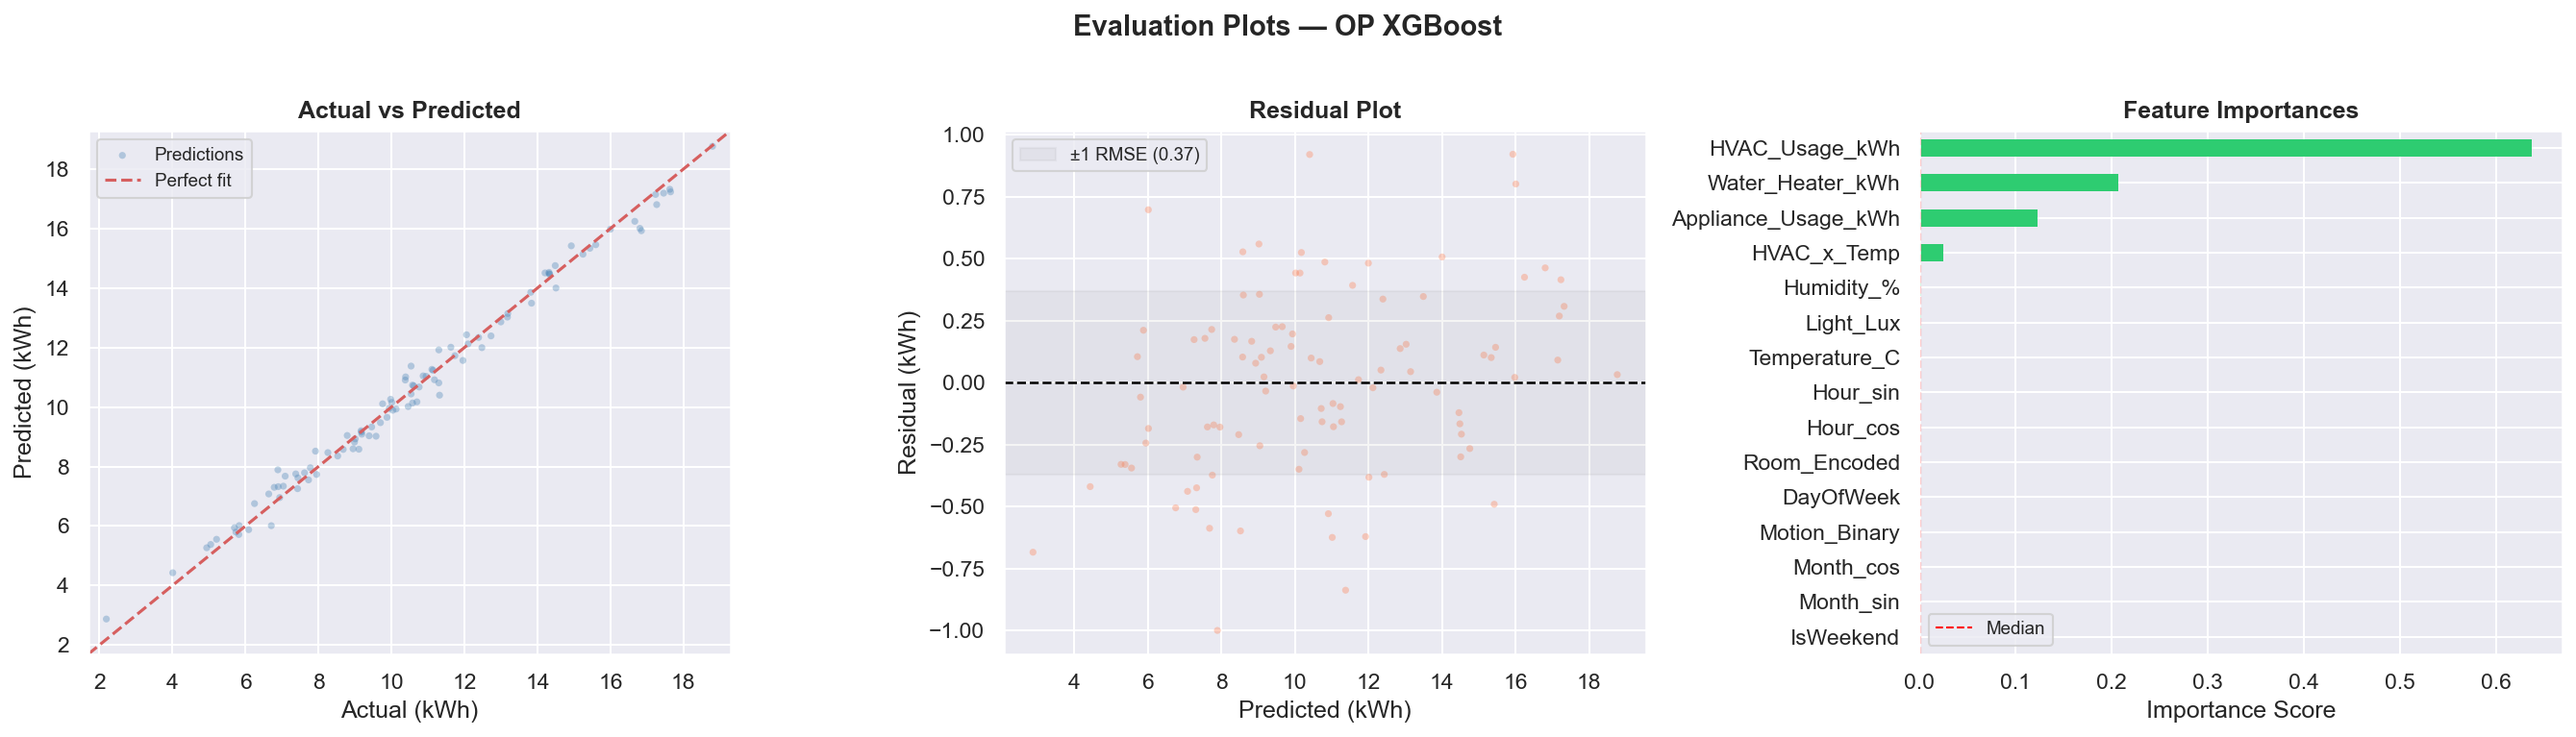
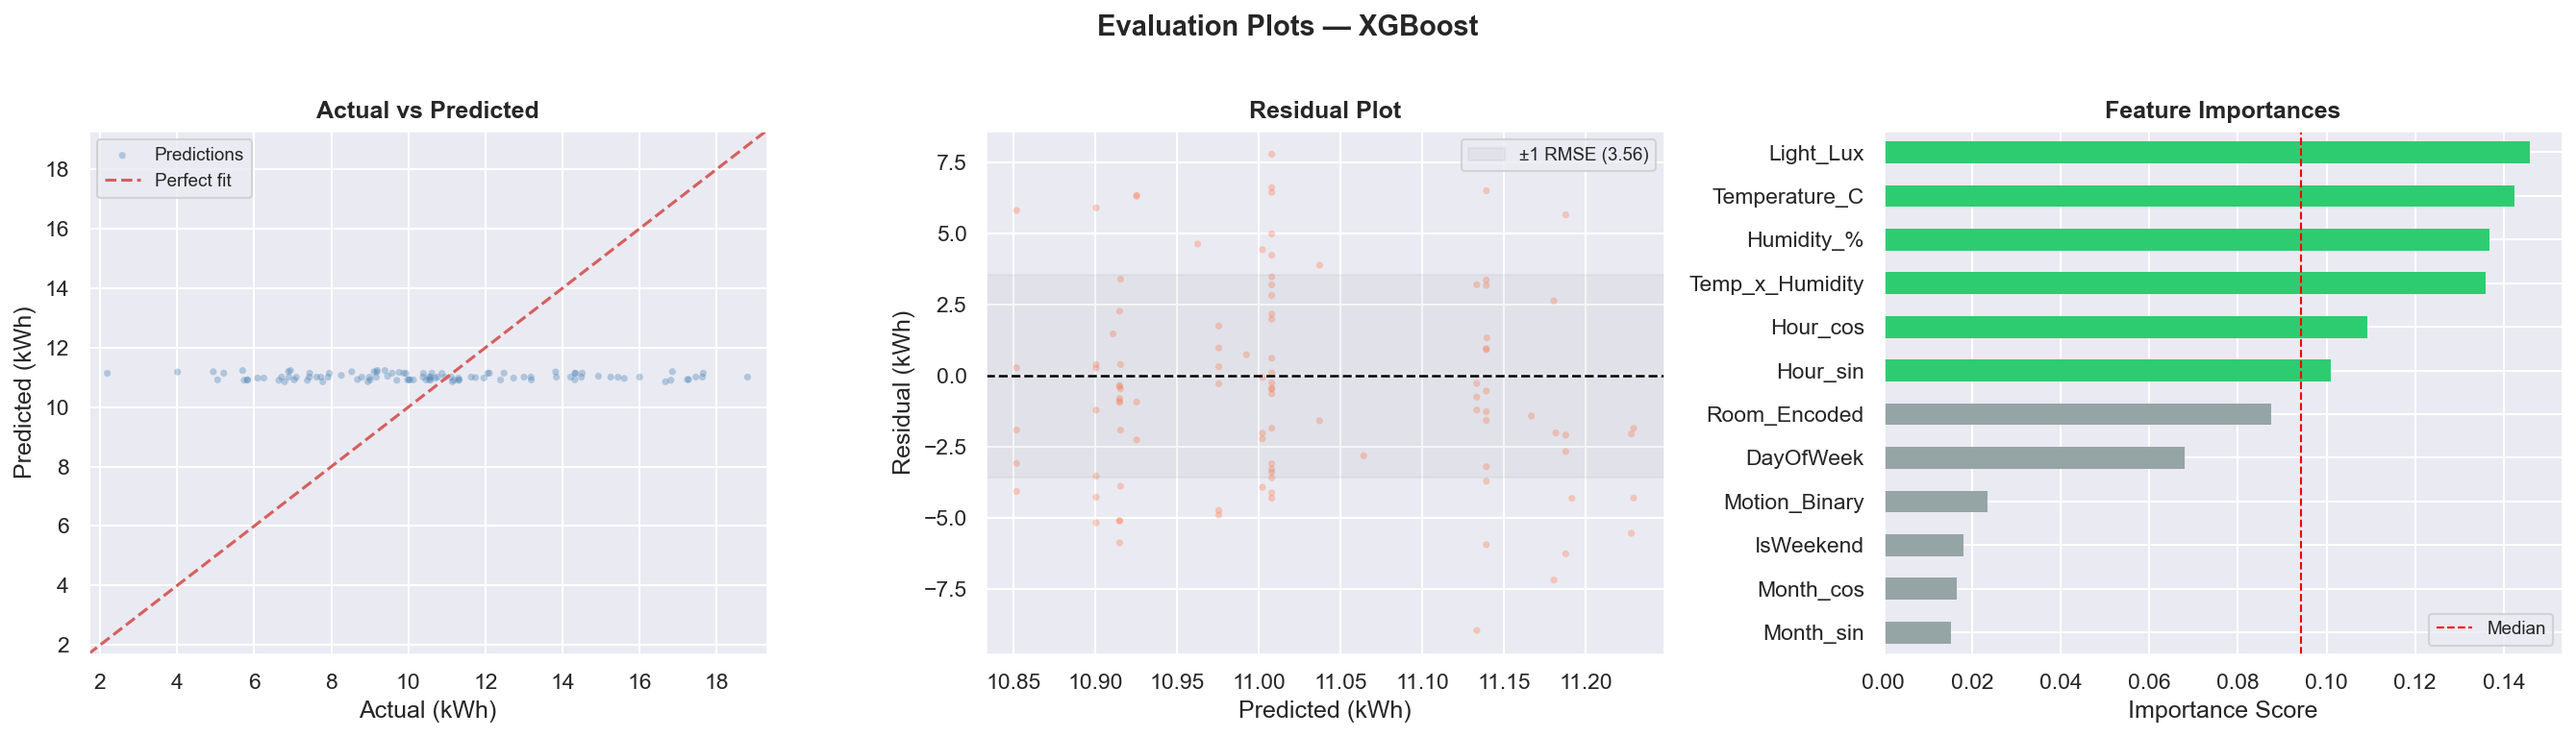
Pyfile

diff --git a/Smart_Home_Energy_Usage.py b/Smart_Home_Energy_Usage.py
@@ -1,16 +1,13 @@
-#!/usr/bin/env python
-# coding: utf-8
-
+# %% [markdown]
 # # Smart Home Energy Consumption Forecasting
 # **End-to-end ML pipeline: Preprocessing → EDA → Feature Engineering → Model Training → Evaluation**
 
+# %% [markdown]
 # # Imports
 
-# In[ ]:
-
-
-import sys # installing Packages for non-colab users 
-#get_ipython().system('{sys.executable} -m pip install pandas numpy matplotlib seaborn scikit-learn xgboost')
+# %%
+import sys # installing Packages for non-colab users
+!{sys.executable} -m pip install pandas numpy matplotlib seaborn scikit-learn xgboost
 
 
 import pandas as pd
@@ -32,12 +29,10 @@ os.makedirs("outputs", exist_ok=True)
 sns.set_theme(style="darkgrid", palette="muted")
 plt.rcParams.update({"figure.dpi": 120, "font.size": 11})
 
-
+# %% [markdown]
 # ## Step 1: Data Preprocessing
 
-# In[30]:
-
-
+# %%
 df = pd.read_csv("smart_home_energy_usage_dataset.csv")
 
 # Strip whitespace from column names to avoid hidden KeyErrors
@@ -56,12 +51,10 @@ print(f"Missing values: {df.isnull().sum().sum()}")
 print(f"Date range: {df['DateTime'].min()} -> {df['DateTime'].max()}")
 df.head()
 
-
+# %% [markdown]
 # ## Step 2: Exploratory Data Analysis (EDA)
 
-# In[31]:
-
-
+# %%
 fig, axes = plt.subplots(2, 2, figsize=(16, 11))
 fig.suptitle("Smart Home Energy — EDA Overview", fontsize=15, fontweight="bold", y=1.01)
 
@@ -111,12 +104,10 @@ plt.tight_layout()
 plt.savefig("outputs/eda_overview.png", bbox_inches="tight", dpi=150)
 plt.show()
 
-
+# %% [markdown]
 # ## Step 3: Feature Engineering
 
-# In[32]:
-
-
+# %%
 # --- 1. Basic Time Features ---
 df["Hour"]      = df["DateTime"].dt.hour
 df["DayOfWeek"] = df["DateTime"].dt.dayofweek
@@ -137,8 +128,9 @@ df["Room_Encoded"]  = df["Room"].map(
 )
 
 # --- 4. Interaction Feature ---
-# HVAC load amplified by temperature — captures heating/cooling demand
-df["HVAC_x_Temp"] = df["HVAC_Usage_kWh"] * df["Temperature_C"]
+# Temperature-humidity interaction — captures how humid heat drives cooling load
+# (replaces HVAC_x_Temp which leaked sub-meter data into the target)
+df["Temp_x_Humidity"] = df["Temperature_C"] * df["Humidity_%"]
 
 # --- 5. Handle NaNs Safely ---
 print(f"Rows before dropping NaNs: {len(df):,}")
@@ -147,23 +139,22 @@ print(f"Rows after dropping NaNs: {len(df):,}")
 
 # --- 6. Define Features ---
 
-# Linear models get environmental + contextual features only
-# Sub-meters excluded because Total = Appliance + HVAC + Water_Heater exactly
-# which causes linear models to trivially learn the summation (data leakage)
+# Sub-meter columns (Appliance, HVAC, Water_Heater) are EXCLUDED from all models
+# because Total_Energy_kWh = Appliance + HVAC + Water_Heater exactly (data leakage).
+# Tree models can reconstruct additive relationships just as easily as linear models.
+
+# Linear models — scaled features (sensitive to feature magnitude)
 FEATURES_LINEAR = [
     "Temperature_C", "Humidity_%", "Light_Lux",
-    "Motion_Binary", "Room_Encoded", "HVAC_x_Temp",
+    "Motion_Binary", "Room_Encoded", "Temp_x_Humidity",
     "Hour_sin", "Hour_cos", "Month_sin", "Month_cos",
     "DayOfWeek", "IsWeekend",
 ]
 
-# Tree models get the full feature set including sub-meter IoT sensor readings
-# Tree models handle the sub-meter features correctly because they learn
-# non-linear thresholds rather than the exact arithmetic summation
+# Tree models — same honest feature set, unscaled
 FEATURES_TREE = [
-    "Appliance_Usage_kWh", "HVAC_Usage_kWh", "Water_Heater_kWh",
     "Temperature_C", "Humidity_%", "Light_Lux",
-    "Motion_Binary", "Room_Encoded", "HVAC_x_Temp",
+    "Motion_Binary", "Room_Encoded", "Temp_x_Humidity",
     "Hour_sin", "Hour_cos", "Month_sin", "Month_cos",
     "DayOfWeek", "IsWeekend",
 ]
@@ -190,19 +181,16 @@ print(f"Train set: {len(X_train):,} samples | Test set: {len(X_test):,} samples"
 print(f"Tree features: {len(FEATURES_TREE)} | Linear features: {len(FEATURES_LINEAR)}")
 
 
+# %% [markdown]
 # ## Step 4: Model Training
 
-# In[33]:
-
-
+# %%
 results = {}
 
-
+# %% [markdown]
 # ### Linear Regression (Baseline)
 
-# In[34]:
-
-
+# %%
 # Simple baseline model - no hyperparameters to tune.
 # Requires scaled input (X_train_sc / X_test_sc) because it is
 # sensitive to feature magnitude.
@@ -235,12 +223,10 @@ print(f"Linear Regression -> MAE: {results['Linear Regression']['MAE']:.4f} | "
       f"Train: {results['Linear Regression']['Train Time (ms)']}ms | "
       f"Test: {results['Linear Regression']['Test Time (ms)']}ms")
 
-
+# %% [markdown]
 # ### XGBoost (High-Achiever)
 
-# In[35]:
-
-
+# %%
 # Gradient boosted trees - does NOT need scaled input.
 # n_estimators         : max number of boosting rounds
 # learning_rate        : shrinks each tree's contribution -> reduces overfitting
@@ -292,12 +278,10 @@ print(f"XGBoost -> MAE: {results['XGBoost']['MAE']:.4f} | "
       f"Train: {results['XGBoost']['Train Time (ms)']}ms | "
       f"Test: {results['XGBoost']['Test Time (ms)']}ms")
 
-
+# %% [markdown]
 # ### Random Forest (Average)
 
-# In[36]:
-
-
+# %%
 # Ensemble of decision trees - does NOT need scaled input.
 # n_estimators     : number of decision trees to build
 # max_depth        : maximum depth each tree can grow to
@@ -341,12 +325,10 @@ print(f"Random Forest -> MAE: {results['Random Forest']['MAE']:.4f} | "
       f"Train: {results['Random Forest']['Train Time (ms)']}ms | "
       f"Test: {results['Random Forest']['Test Time (ms)']}ms")
 
-
+# %% [markdown]
 # ## Step 5: Evaluation & Visualisation
 
-# In[37]:
-
-
+# %%
 # 5a. Metrics table — shows baseline model performance before optimization
 metrics_df = (
     pd.DataFrame(results)
@@ -357,14 +339,13 @@ metrics_df = (
 print("Model Performance Comparison")
 metrics_df
 
-
+# %% [markdown]
 # ## Step 6: Optimization
 
+# %% [markdown]
 # ### Ridge & Lasso Regression (Optimized Linear Models)
 
-# In[38]:
-
-
+# %%
 from sklearn.linear_model import RidgeCV, LassoCV
 
 # RidgeCV: adds L2 penalty to shrink large coefficients -> prevents overfitting
@@ -432,12 +413,10 @@ print(f"Lasso (alpha={lasso_model.alpha_:.4f}) -> "
       f"Train: {results['Lasso Regression']['Train Time (ms)']}ms | "
       f"Test: {results['Lasso Regression']['Test Time (ms)']}ms")
 
-
+# %% [markdown]
 # ### Randomized Search and Time Series Split for XGBoost
 
-# In[39]:
-
-
+# %%
 # Hyperparameter search space for XGBoost
 # n_estimators     : number of boosting rounds
 # learning_rate    : model learning speed -> lower = more conservative
@@ -503,13 +482,11 @@ print(f"OP XGBoost -> MAE: {results['OP XGBoost']['MAE']:.4f} | "
       f"Train: {results['OP XGBoost']['Train Time (ms)']}ms | "
       f"Test: {results['OP XGBoost']['Test Time (ms)']}ms")
 
-
+# %% [markdown]
 # ### Randomized Search and Time Series Split for Random Forest
 # 
 
-# In[40]:
-
-
+# %%
 # Hyperparameter search space for Random Forest
 # n_estimators     : number of decision trees to build
 # max_depth        : maximum depth each tree can grow to (None = unlimited)
@@ -573,12 +550,10 @@ print(f"OP Random Forest -> MAE: {results['OP Random Forest']['MAE']:.4f} | "
       f"Train: {results['OP Random Forest']['Train Time (ms)']}ms | "
       f"Test: {results['OP Random Forest']['Test Time (ms)']}ms")
 
-
+# %% [markdown]
 # ## Step 7: Re-evaluation & Visualisation
 
-# In[41]:
-
-
+# %%
 # Full metrics table — all models including optimized versions
 metrics_df = (
     pd.DataFrame(results)
@@ -589,13 +564,11 @@ metrics_df = (
 print("Model Performance Comparison")
 metrics_df
 
-
+# %% [markdown]
 # ## Step 8: Evaluation Plots
 # 
 
-# In[42]:
-
-
+# %%
 best_model_name = metrics_df.index[0]  # lowest RMSE
 best_preds = results[best_model_name]["Predictions"]
 residuals = y_test.values - best_preds
@@ -643,9 +616,10 @@ plt.tight_layout()
 plt.savefig("outputs/evaluation_plots.png", bbox_inches="tight", dpi=150)
 plt.show()
 
-
+# %% [markdown]
 # ## Step 9: Raspberry Pi Results
 
+# %% [markdown]
 # ### Raspberry Pi Metrics
 # 
 # | Model             | MAE | RMSE | R2 | Training Time (ms) | Testing Time (ms) |
@@ -656,6 +630,7 @@ plt.show()
 # 
 # 
 
+# %% [markdown]
 # ## Step 10: Current vs Raspberry Pi Comparison
 # 
 # ### Laptop vs Raspberry Pi Comparison
@@ -666,4 +641,7 @@ plt.show()
 # | Random Forest     |     |      |    |                              |                                     |                             |                                   |
 # | XGBoost           |     |      |    |                              |                                     |                             |                                   |
 
+# %% [markdown]
 # 
+
+
